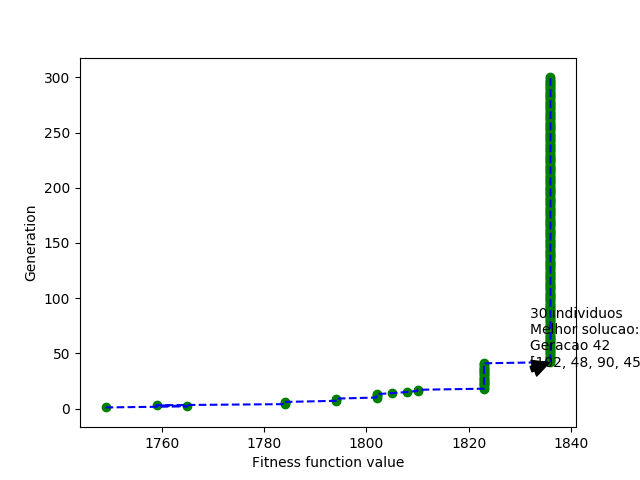
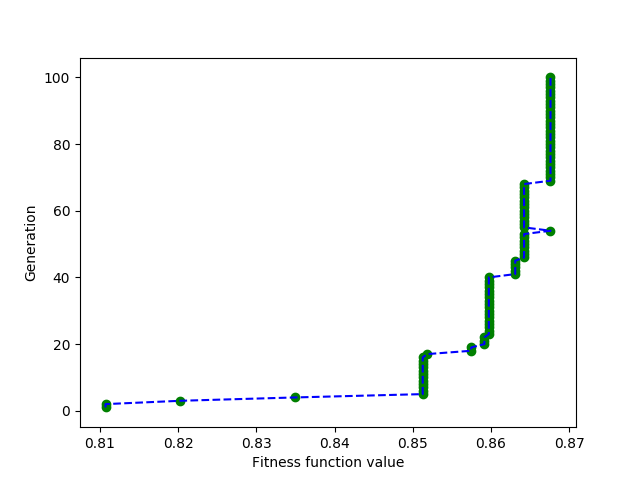
normalize fitness value for gank

diff --git a/ga.py b/ga.py
@@ -33,13 +33,13 @@ numheros = 5
 # Quantidade de heros presentes na base de dados
 qtheros = 121
 # Populacao Total
-populacao = 30
+populacao = 50
 # Probabilidade De Um Individuo Sofrer Mutacao
-probmut = 0.2
+probmut = 0.7
 # Probabilidade De Dois Individuos Cruzarem
-probcross = 0.6
+probcross = 0.3
 # Quantidade maxima de Geracoes
-numgeracoes = 300
+numgeracoes = 100
 # Melhor resultado possivel da funcao de avaliacao
 resulfunc = 1000000
 
@@ -83,71 +83,74 @@ toolbox.register("population", tools.initRepeat, list, toolbox.individual)
 
 # funcao de fitness sendo calculada apenas com agilidade
 def evalOneMax(individual):
-	strategy = sys.argv[1]
+    strategy = sys.argv[1]
 
-	# f(x) = Somatorio(Initiator) + Somatorio(attack) + Somatorio(move_speed)
-	if strategy == 'gank':
-		print("----------------------------------")
-		print(individual)
-		fitvalue=0
-		initiator=-1
-		attack=0
-		speed=0
-		for id_hero in individual:
-			for data in dataset:
-				if data['id']==id_hero:
-					print(str(data['localized_name']))
-					attack = attack + data['base_attack_max']
-					#print("atack ", attack)
-					speed = speed + data['move_speed']
-					#print("velocidade ", speed)
-					for r in data['roles']:
-						if r == "Initiator":
-							initiator=10
-						else:
-							initiator=0
-					
-		fitvalue=attack+speed+initiator
-		print ('team fitness = ' +str(fitvalue))
-		return fitvalue,
+    # f(x) = Somatorio(Initiator) + Somatorio(attack) + Somatorio(move_speed)
+    if strategy == 'gank':
+        print("----------------------------------")
+        print(individual)
+        fitvalue=0
+        initiator=0
+        attack=0
+        speed=0
+        for id_hero in individual:
+            for data in dataset:
+                if data['id']==id_hero:
+                    print(str(data['localized_name']))
+                    attack = attack + data['base_attack_max']
+                    #print("atack ", attack)
+                    speed = speed + data['move_speed']
+                    #print("velocidade ", speed)
+                    for r in data['roles']:
+                        if r == "Initiator":
+                            initiator=10
+                        else:
+                            initiator=-5
+                    
+        fitvalue=attack+speed+initiator
+        fitvalue = (float(fitvalue)-300)/(2075-300)
+        print ('team fitness = ' +str(fitvalue))
+        return fitvalue,
+        #normalized = (x-min(x))/(max(x)-min(x))
 
-	elif strategy == 'teamfight':
-		print("----------------------------------")
-		print(individual)
-		fitvalue=0
-		carry=-1
-		strength=0
-		atk_rate=0
-		for id_hero in individual:
-			for data in dataset:
-				if data['id']==id_hero:
-					print(str(data['localized_name']))
-					strength = strength + data['base_str']
-					#print("strength ", strength)
-					atk_rate = atk_rate + data['attack_rate']
-					#print("velocidade ", atk_rate)
-					for r in data['roles']:
-						if r == "Carry":
-							carry=10
-						else:
-							carry=0
-					
-		fitvalue=strength+atk_rate+carry
-		print ('team fitness = ' +str(fitvalue))
-		return fitvalue,
 
-	elif strategy == 'pusher':
-		print("----------------------------------")
-		print(individual)
-		fitvalue=0
-		for id_hero in individual:
-			for data in dataset:
-				if data['id']==id_hero:
-					print(str(data['localized_name']) + ' agility = ' + str(data['base_agi']))
-					fitvalue = fitvalue + data['base_agi']
-		
-		print ('time fitness = ' +str(fitvalue))
-		return fitvalue,
+    elif strategy == 'teamfight':
+        print("----------------------------------")
+        print(individual)
+        fitvalue=0
+        carry=-1
+        strength=0
+        atk_rate=0
+        for id_hero in individual:
+            for data in dataset:
+                if data['id']==id_hero:
+                    print(str(data['localized_name']))
+                    strength = strength + data['base_str']
+                    #print("strength ", strength)
+                    atk_rate = atk_rate + data['attack_rate']
+                    #print("velocidade ", atk_rate)
+                    for r in data['roles']:
+                        if r == "Carry":
+                            carry=10
+                        else:
+                            carry=0
+                    
+        fitvalue=strength+atk_rate+carry
+        print ('team fitness = ' +str(fitvalue))
+        return fitvalue,
+
+    elif strategy == 'pusher':
+        print("----------------------------------")
+        print(individual)
+        fitvalue=0
+        for id_hero in individual:
+            for data in dataset:
+                if data['id']==id_hero:
+                    print(str(data['localized_name']) + ' agility = ' + str(data['base_agi']))
+                    fitvalue = fitvalue + data['base_agi']
+        
+        print ('time fitness = ' +str(fitvalue))
+        return fitvalue,
 
 #----------
 # Operator registration
@@ -276,7 +279,7 @@ def main():
         for data in dataset:
             if data['id']==b:
                 best_ind_name.append(str(data['localized_name']))
-            	image_urls.append(data['img'])
+                image_urls.append(data['img'])
 
 
     print("Best individual is %s, %s" % (best_ind_name, best_ind.fitness.values))
@@ -288,8 +291,8 @@ def main():
     ax.plot(xglobal, yglobal, 'b--')
     style = dict(size=10, color='gray')
     plt.scatter(xglobal, yglobal, color='green')
-    txtTemp = '{} individuos\nMelhor solucao: {}\nGeracao {}\n{}'.format(populacao, best_ind.fitness.values[0], gglobal, best_ind)
-    ax.annotate(txtTemp, xy=(best_ind.fitness.values[0], gglobal), xytext=(best_ind.fitness.values[0]-4, gglobal-4),arrowprops=dict(facecolor='black', shrink=0.05))
+    #txtTemp = '{} individuos\nMelhor solucao: {}\nGeracao {}\n{}'.format(populacao, best_ind.fitness.values[0], gglobal, best_ind)
+    #ax.annotate(txtTemp, xy=(best_ind.fitness.values[0], gglobal), xytext=(best_ind.fitness.values[0]-4, gglobal-4),arrowprops=dict(facecolor='black', shrink=0.05))
     plt.xlabel('Fitness function value')
     plt.ylabel('Generation')
     plt.show()
@@ -299,7 +302,7 @@ def main():
     #it works just with internet
     images=[]
     for im in image_urls:
-    	images.append(Image.open(requests.get('https://api.opendota.com'+im, stream=True).raw))
+        images.append(Image.open(requests.get('https://api.opendota.com'+im, stream=True).raw))
 
     widths, heights = zip(*(i.size for i in images))
     total_width = sum(widths)
@@ -307,10 +310,10 @@ def main():
     new_im = Image.new('RGB', (total_width, max_height))
     x_offset = 0
     for im in images:
-    	new_im.paste(im, (x_offset,0))
-    	x_offset += im.size[0]
+        new_im.paste(im, (x_offset,0))
+        x_offset += im.size[0]
 
-	new_im.save('test.jpg')
+    new_im.save('test.jpg')
 
 
     

diff --git a/test.py b/test.py
@@ -1,28 +1,18 @@
-import sys
-import requests
-from PIL import Image
+import json
 
-images=[]
-url0 = 'https://api.opendota.com/apps/dota2/images/heroes/antimage_full.png?'
-url1 = 'https://api.opendota.com/apps/dota2/images/heroes/bloodseeker_full.png?'
-url2 = 'https://api.opendota.com/apps/dota2/images/heroes/axe_full.png?'
+json_file='heroStats.json'
+json_data=open(json_file)
+dataset = json.load(json_data)
 
-images.append(Image.open(requests.get(url0, stream=True).raw))
-images.append(Image.open(requests.get(url1, stream=True).raw))
-images.append(Image.open(requests.get(url2, stream=True).raw))
+atkmin = 100000
+for data in dataset:
+	if data['move_speed'] < atkmin:
+		atkmin=data['move_speed']
+print(atkmin)
 
-print(images)
-
-widths, heights = zip(*(i.size for i in images))
-
-total_width = sum(widths)
-max_height = max(heights)
-
-new_im = Image.new('RGB', (total_width, max_height))
-
-x_offset = 0
-for im in images:
-  new_im.paste(im, (x_offset,0))
-  x_offset += im.size[0]
-
-new_im.save('test.jpg')
+#para 5 heros
+#atk min 11 (55 for 5 heros) e max 70 (350 for 5 heros)
+#move min 270 (1350 for 5 heros) e max 335 (1675 for 5 heros)
+#roles min -5 e max 10
+#gankFitMin = 320
+#gankFitMax = 2075
